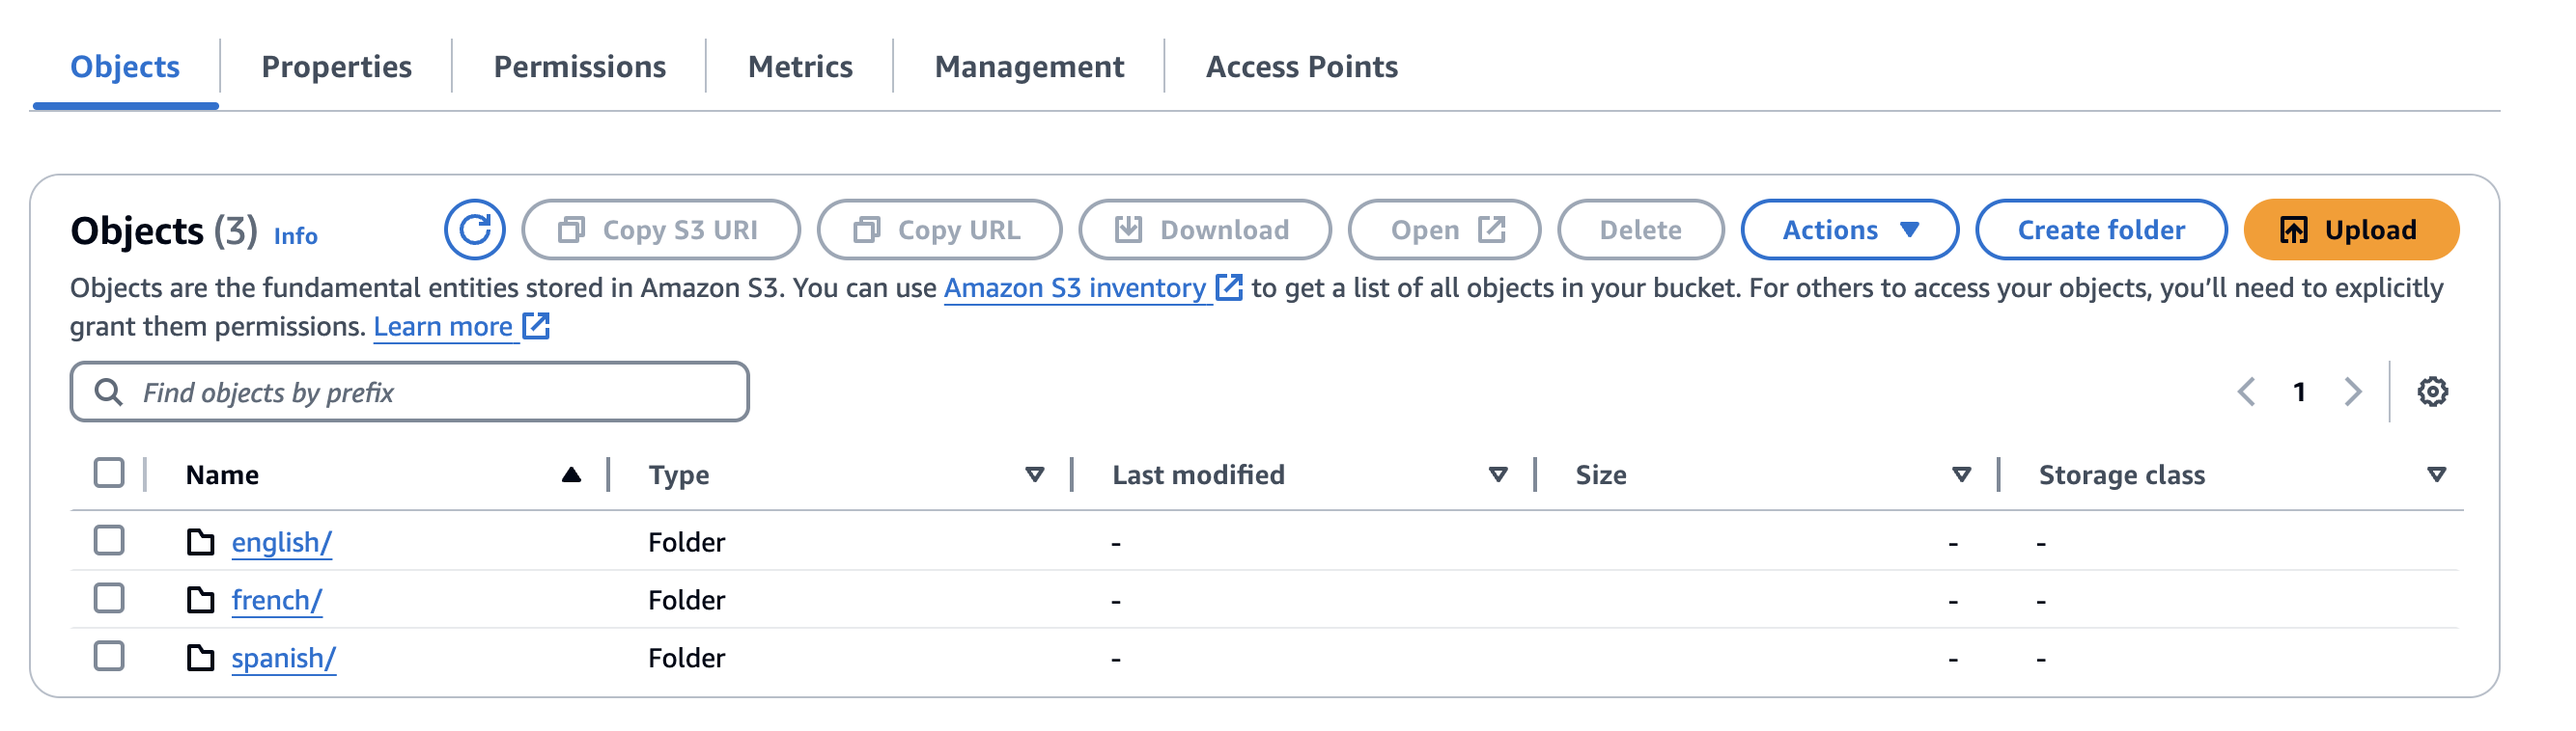
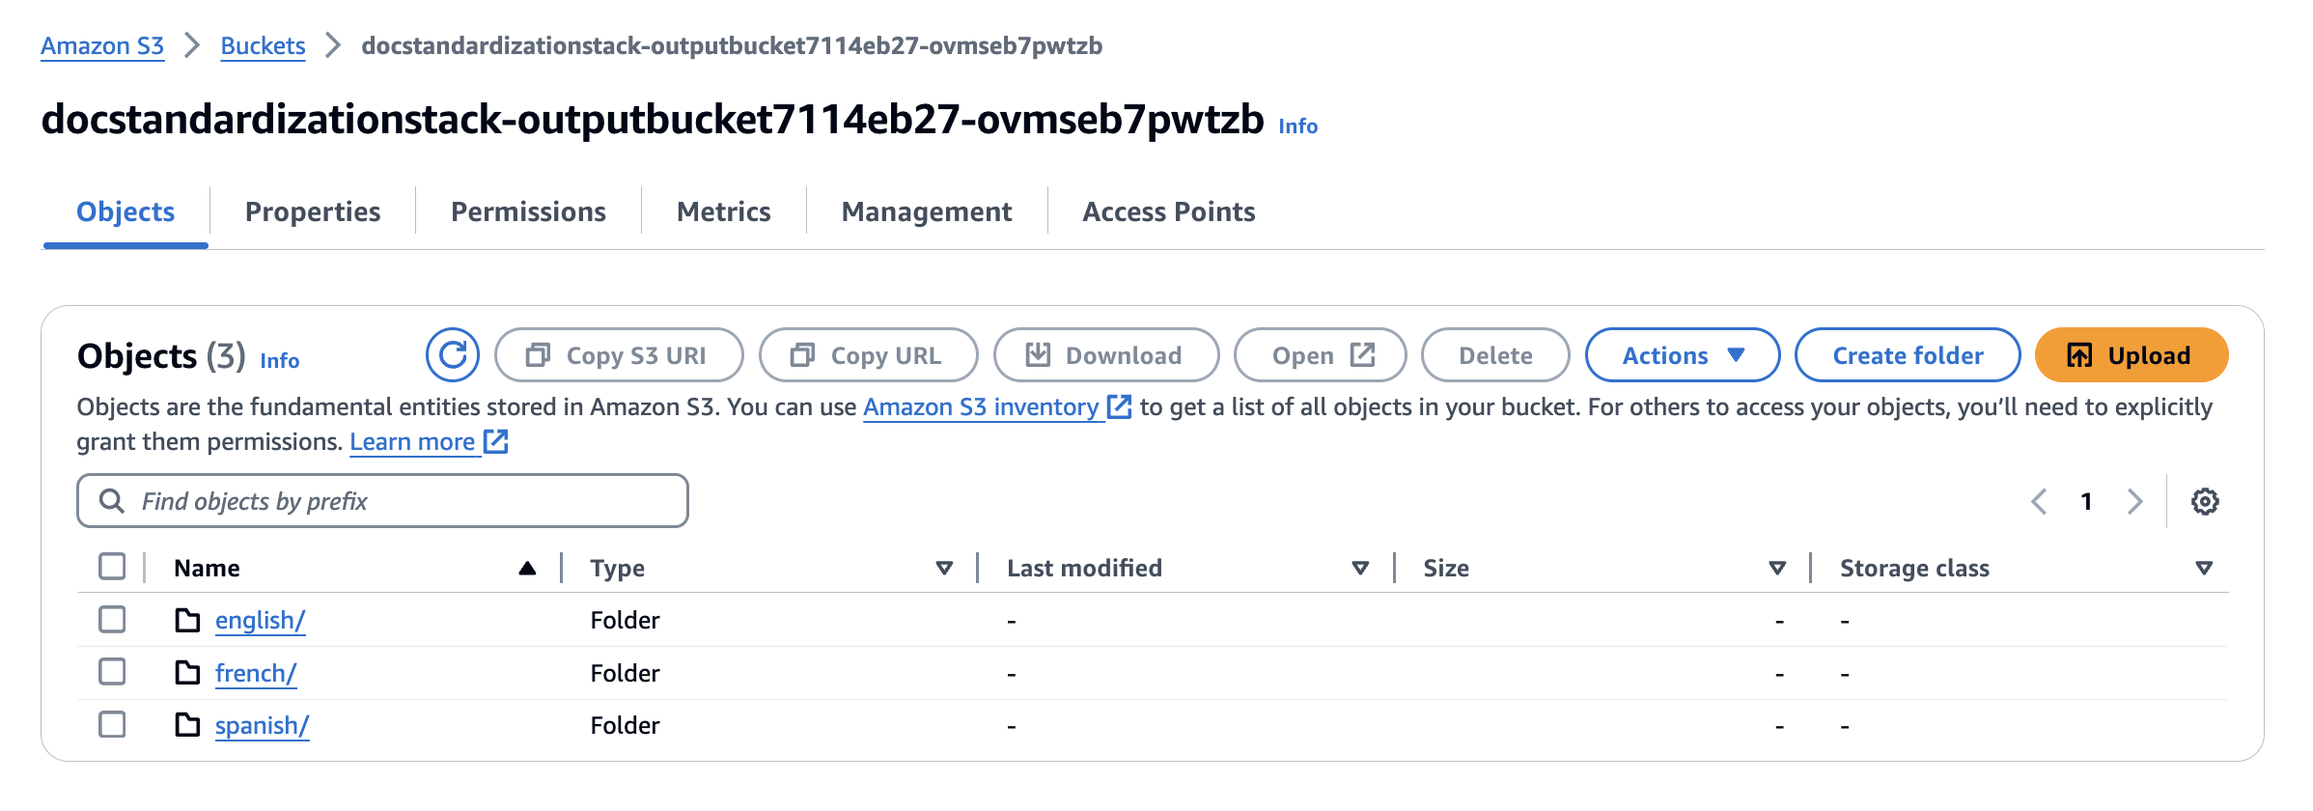
small README update

diff --git a/lib/lambda/bedrock/claude_prompt.py b/lib/lambda/bedrock/claude_prompt.py
@@ -2,7 +2,7 @@ def get_claude_prompt(text):
     
     prompt_template = f"""\n\nHuman: You are an AI assitant specializing in rewriting documents. You are especially good at spelling and grammar checks, and making sure documents have business-appropriate tone. 
     I will provide you with some text that you will check for spelling and grammar accuracy. You will also check to see if the document has been written in business-professional language. 
-    These documents have been translated. If you find that any translations are too literal, update them accordingly. 
+    These documents have been translated. If you find that any translations are too literal and do not make sense in the current context, update the sentences accordingly. 
     The document will be written in either English, Spanish or French.
 
     Your job is to correct any spelling or grammar mistake you see in the following text. You should also ensure that all sentences are written in a business-professional tone by updating sentences as needed. Do not change any of the html formatting - all updates should be made in place.

diff --git a/lib/lambda/bedrock/bedrock_processor.py b/lib/lambda/bedrock/bedrock_processor.py
@@ -138,11 +138,6 @@ def handler(event, context):
             'body': json.dumps(f'Could not process {document_key} due to the following error: {str(e)}')
         }
 
-def extract_first_two_paragraphs(document_path):
-    doc = Document(document_path)
-    paragraphs = [p.text for p in doc.paragraphs[:2]]
-    return paragraphs[0], paragraphs[1] if len(paragraphs) > 1 else ""
-
 def center_images(doc):
     for paragraph in doc.paragraphs:
         for run in paragraph.runs:

diff --git a/README.md b/README.md
@@ -99,6 +99,8 @@ If you do not have a doc ready for testing, you can use the included *tone_test.
 
 ![](pictures/spanish_translation.png)
 
+### Output Documents
+
 
 The documents will then be processed with Bedrock and the corrected version will be added to the _docstandardizationstack-outputbucket_. The output bucket has the same format as the input bucket.
 
